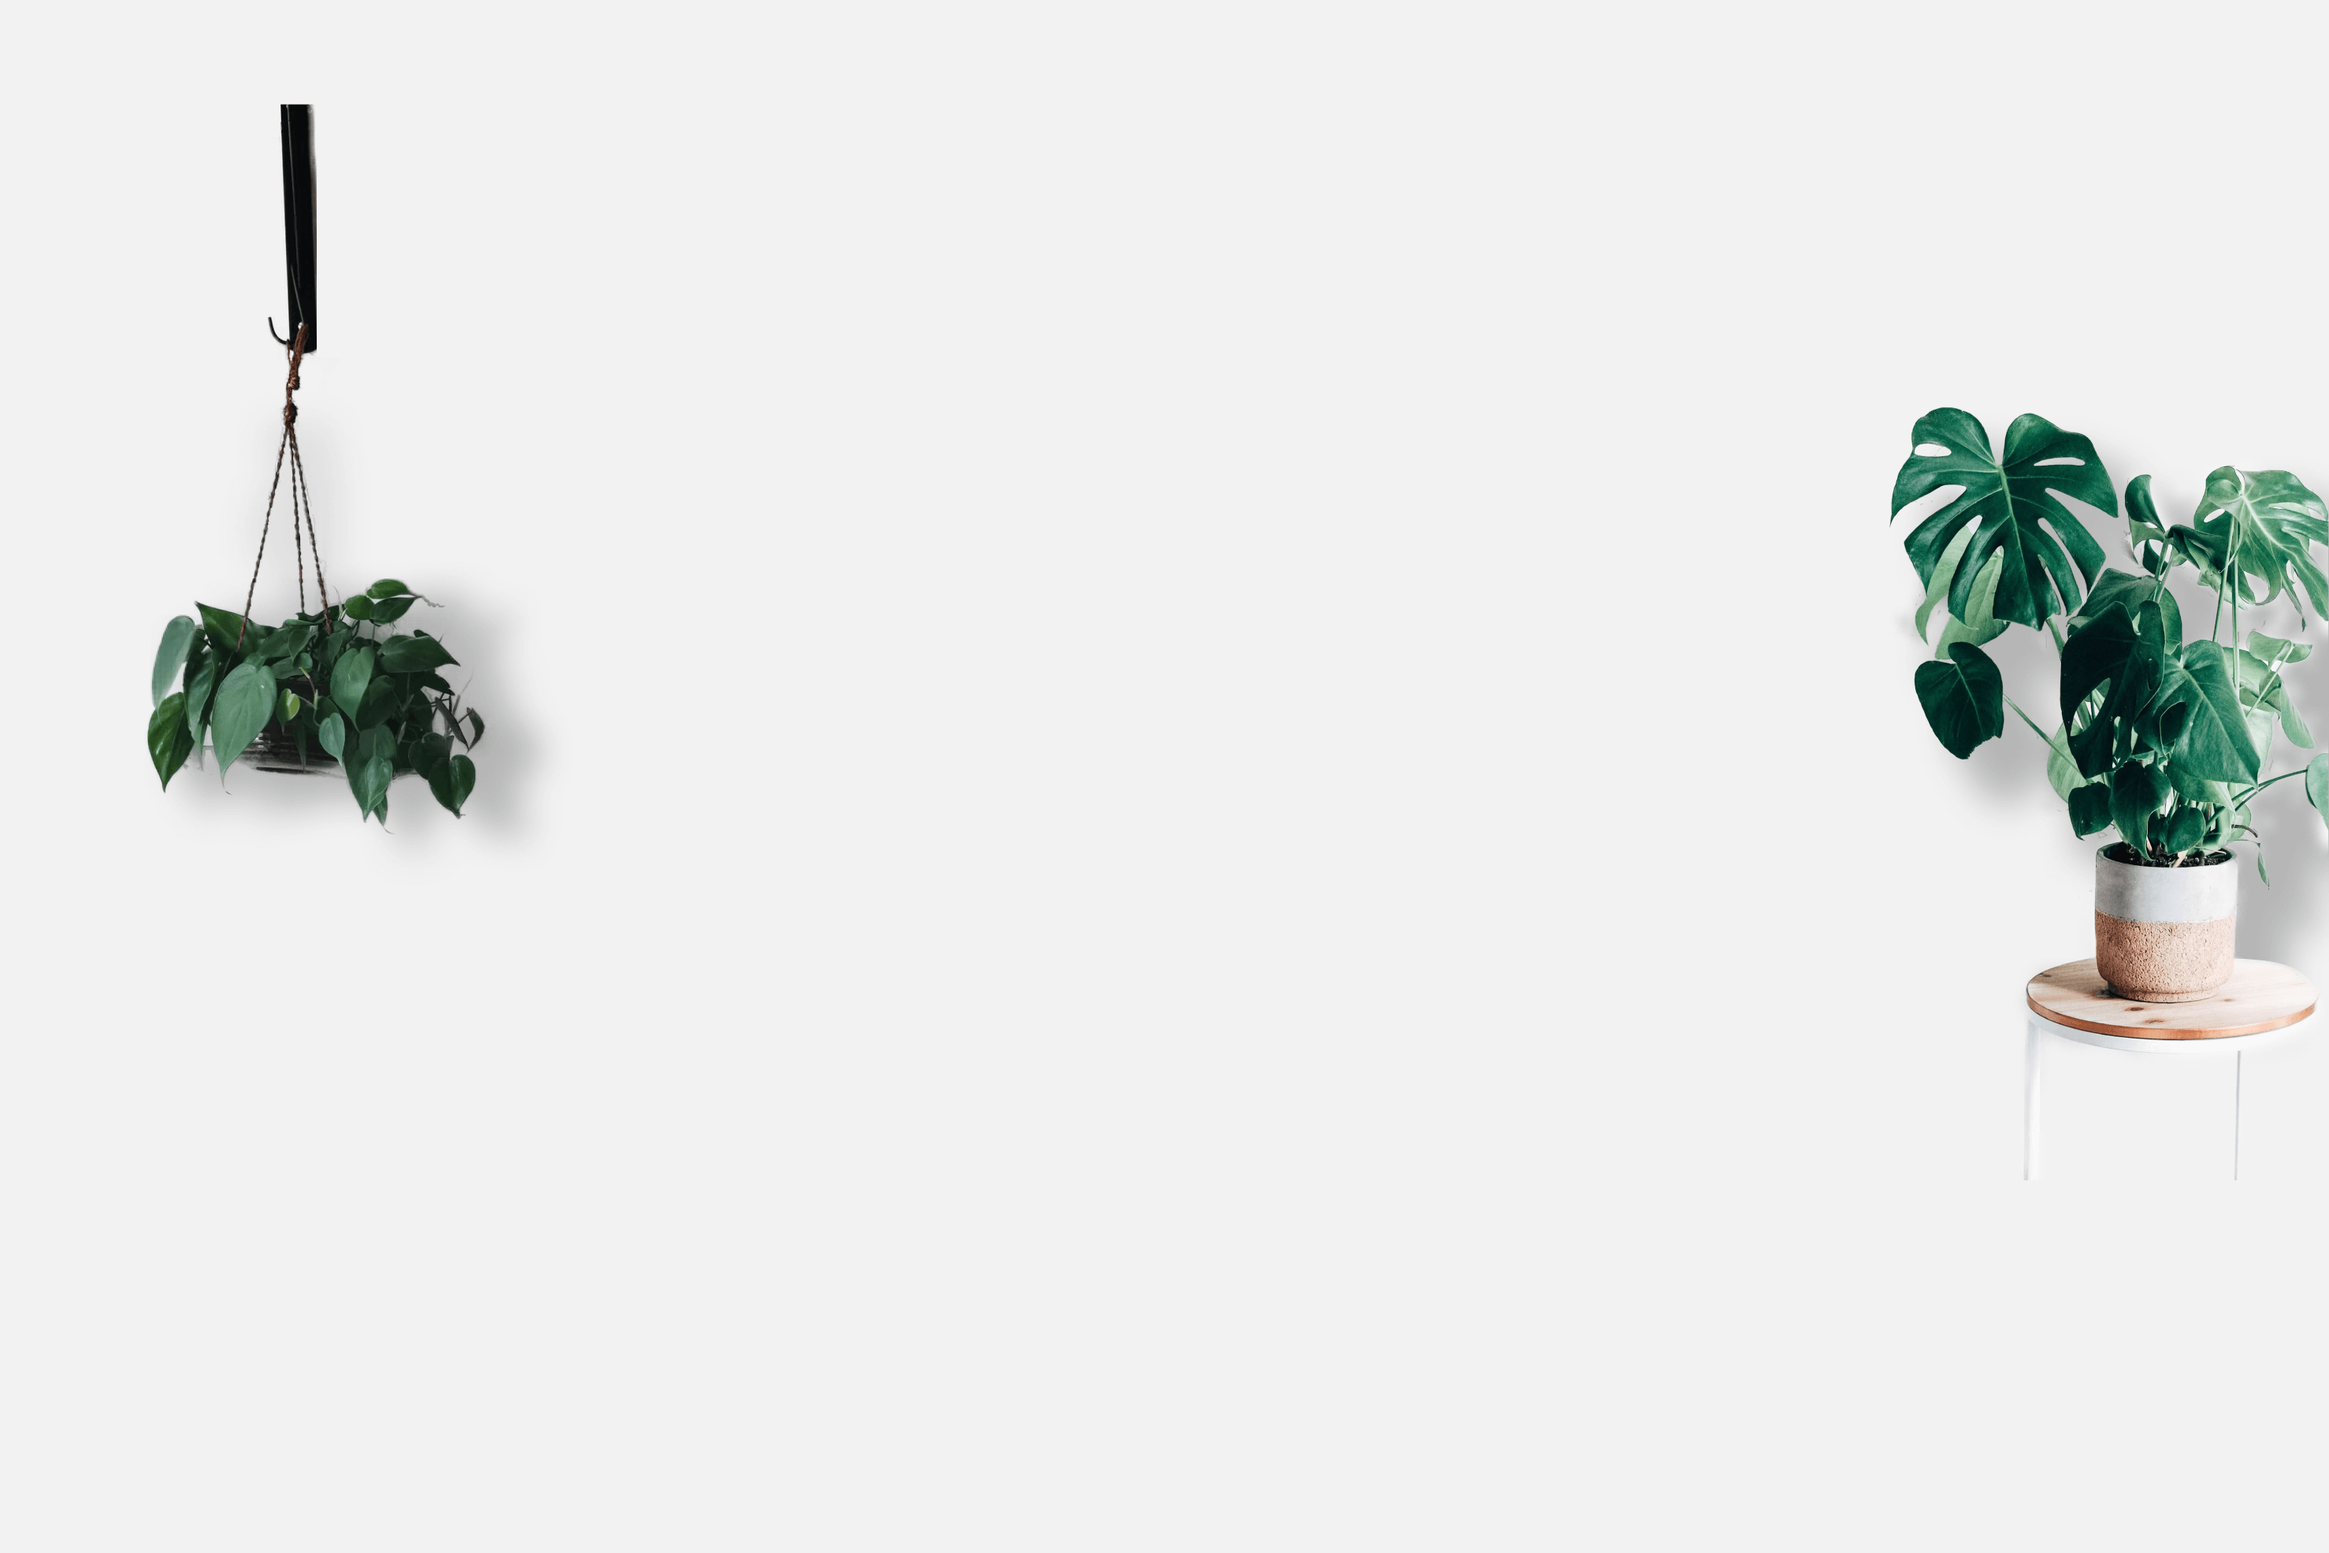
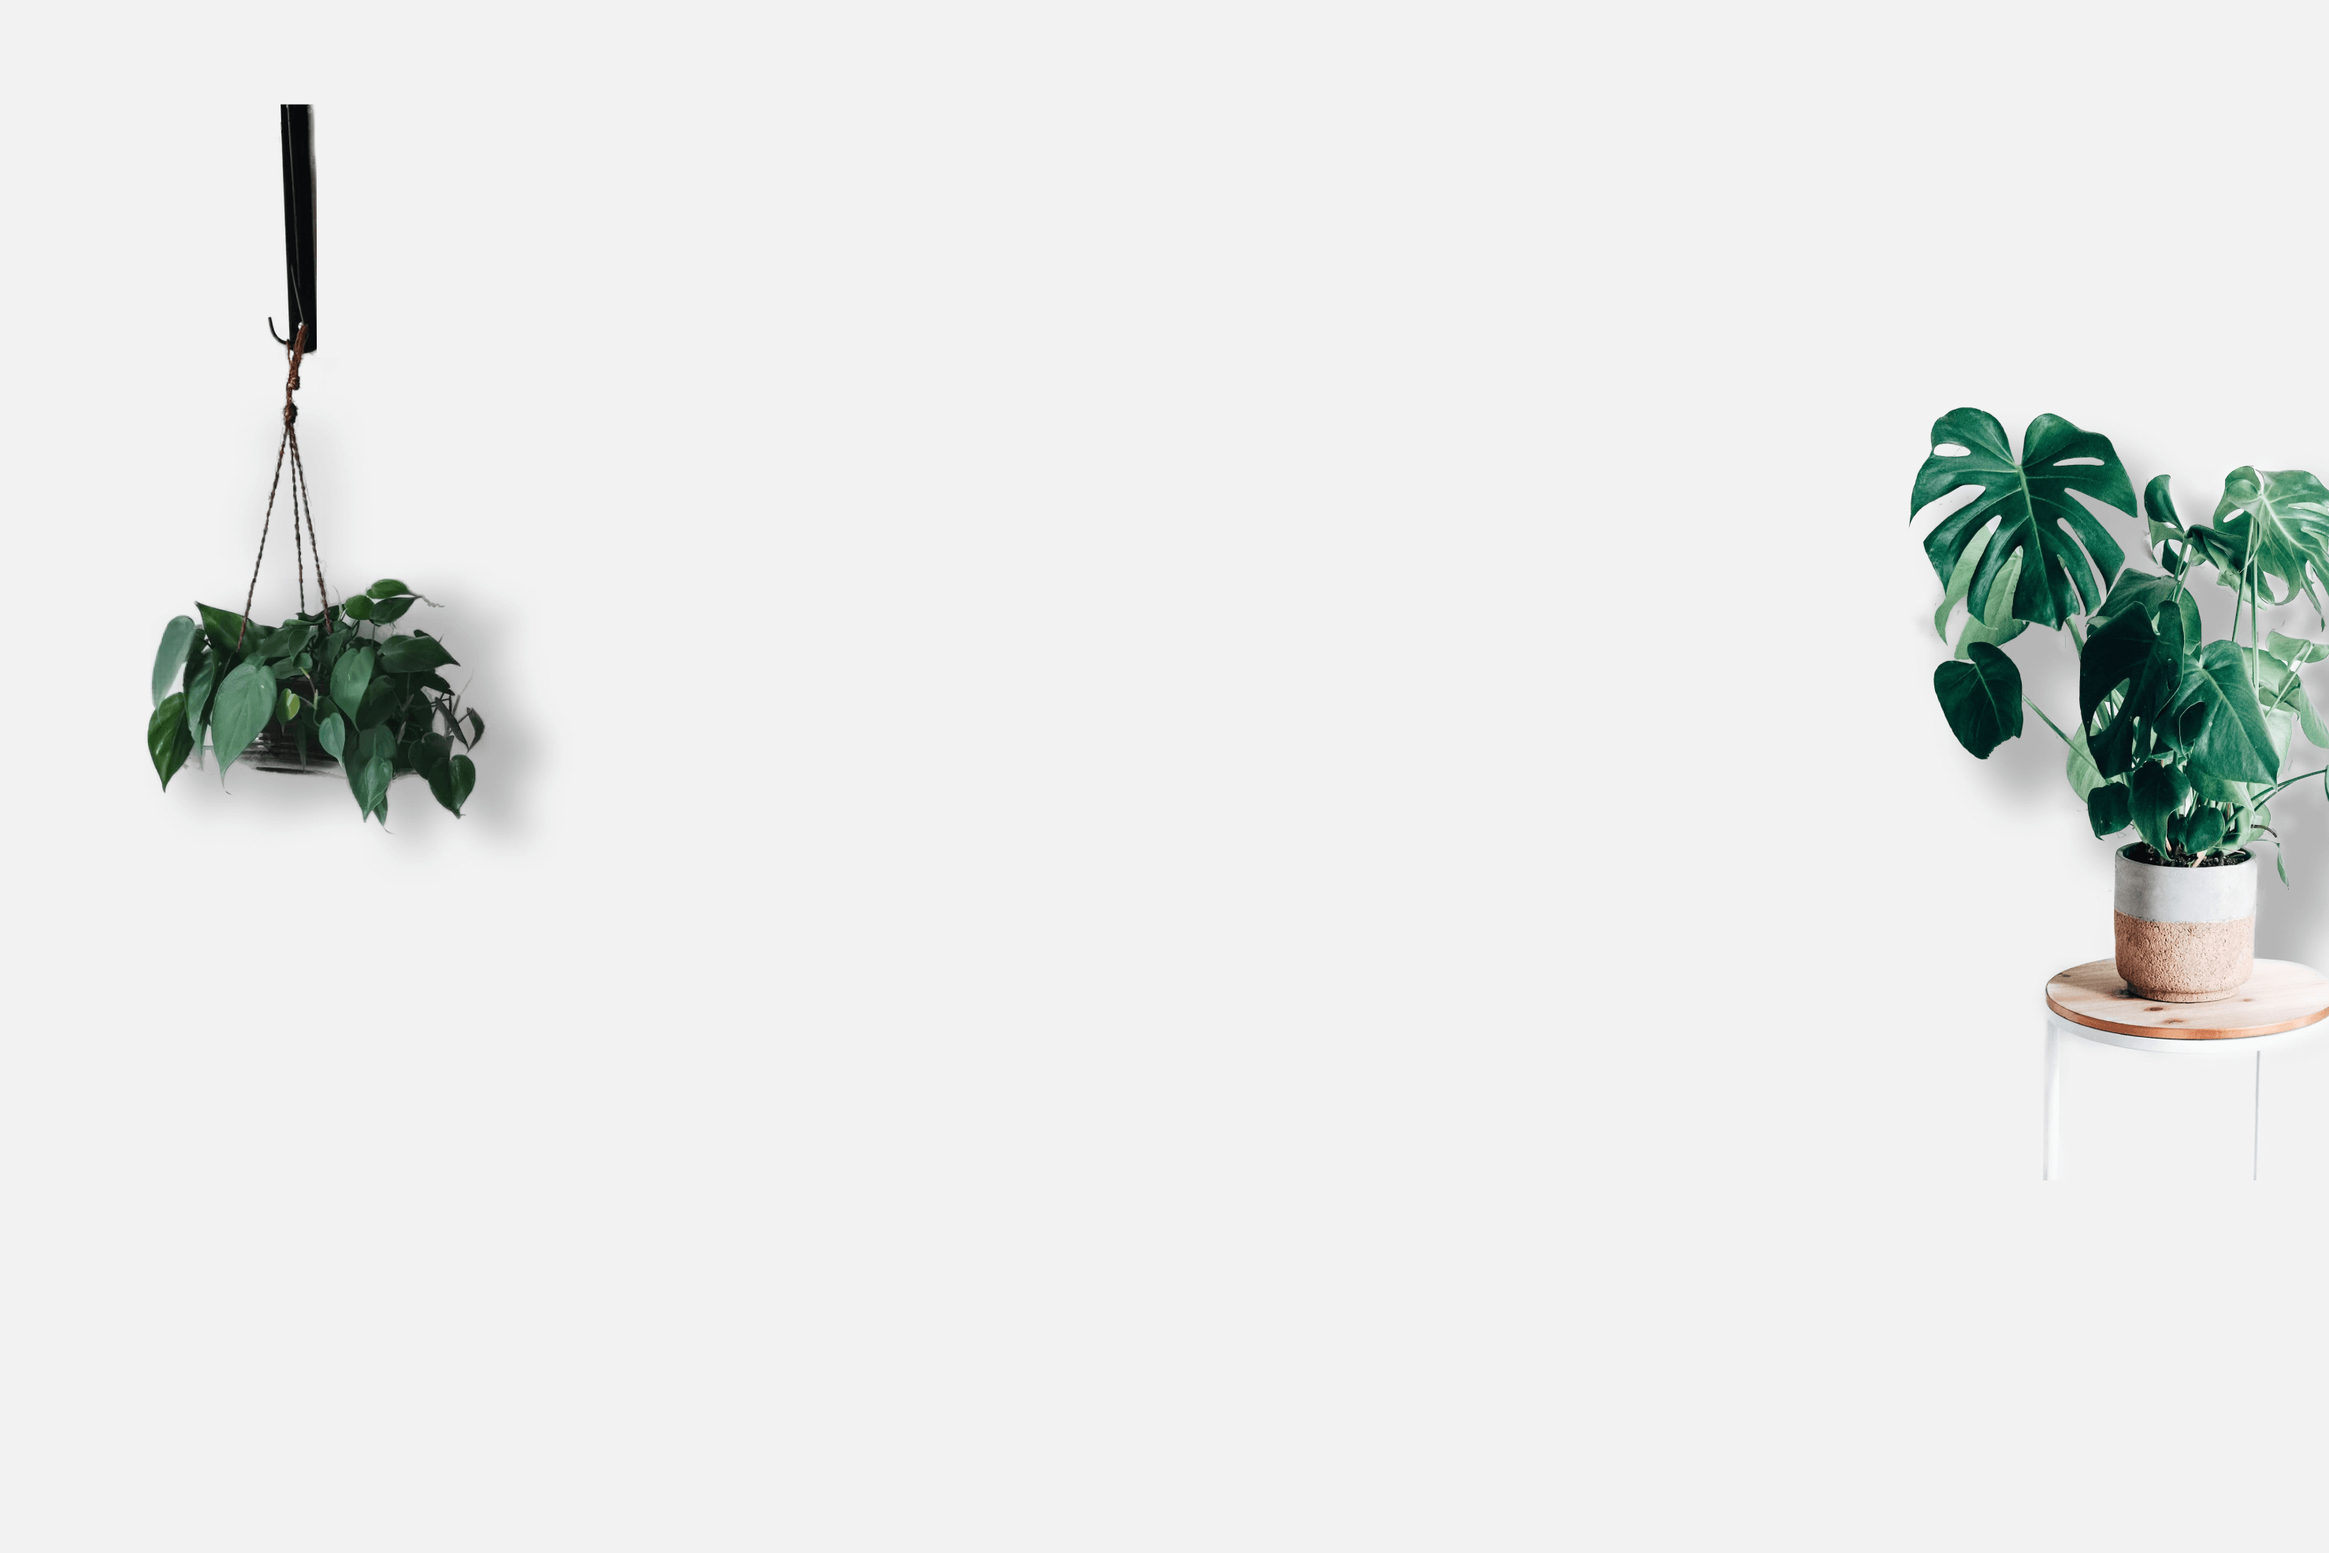
changes7

Changed region(s): [[0.8092, 0.2476, 1.0, 0.6809]]

diff --git a/02_cases/script.js b/02_cases/script.js
@@ -167,19 +167,21 @@ const observer = new IntersectionObserver(entries => {
 observer.observe(whoIAmElement);
 
 // Responsive avatar size
-/*function adjustAvatarSize() {
+/* Πριν τις ρυθμίσεις tablet and mobile I had this
+function adjustAvatarSize() {
     if (window.innerWidth <= 1270) {
         avatarImg.style.width = "52px";
     } else {
         avatarImg.style.width = "65px";
     }
-}*/
+}
+και χωρίς το avatarImg.id = "avatarImg"; στο const avatarImg = document.createElement("img");
+*/
 function adjustAvatarSize() {
     const avatarImg = document.getElementById("avatarImg"); // βεβαιώσου ότι έχεις αυτό το ID στο HTML
 
     if (window.innerWidth <= 600) {
-        avatarImg.style.display = "inline-block"; // Το avatar εμφανίζεται
-        avatarImg.style.width = "25px"; // Πολύ μικρό μέγεθος για μικρότερες οθόνες
+        avatarImg.style.display = "none"; // Κρύβει το avatar εντελώς σε mobile
     } else if (window.innerWidth <= 860) {
         avatarImg.style.display = "inline-block"; // Το avatar εμφανίζεται
         avatarImg.style.width = "32px"; // Ελαφρώς μεγαλύτερο για οθόνες 860px

diff --git a/02_cases/style.css b/02_cases/style.css
@@ -529,7 +529,9 @@ footer ::selection {
 
 /* tablet */
 @media only screen and (max-width:858px){
-    /* top */
+    .topContainer {
+        background-image: url(../00_assets/svgs/pt.png);
+    }
     .topContainer{
         flex-direction: column-reverse;
         background-position: center;
@@ -622,6 +624,10 @@ footer ::selection {
 }
 
 @media screen and (max-width: 600px) {
+    .topContainer {
+        background-image: url(../00_assets/svgs/pmb.png);
+    }
+
     .projectLeft {
         padding: 0 15px;
         box-sizing: border-box;
